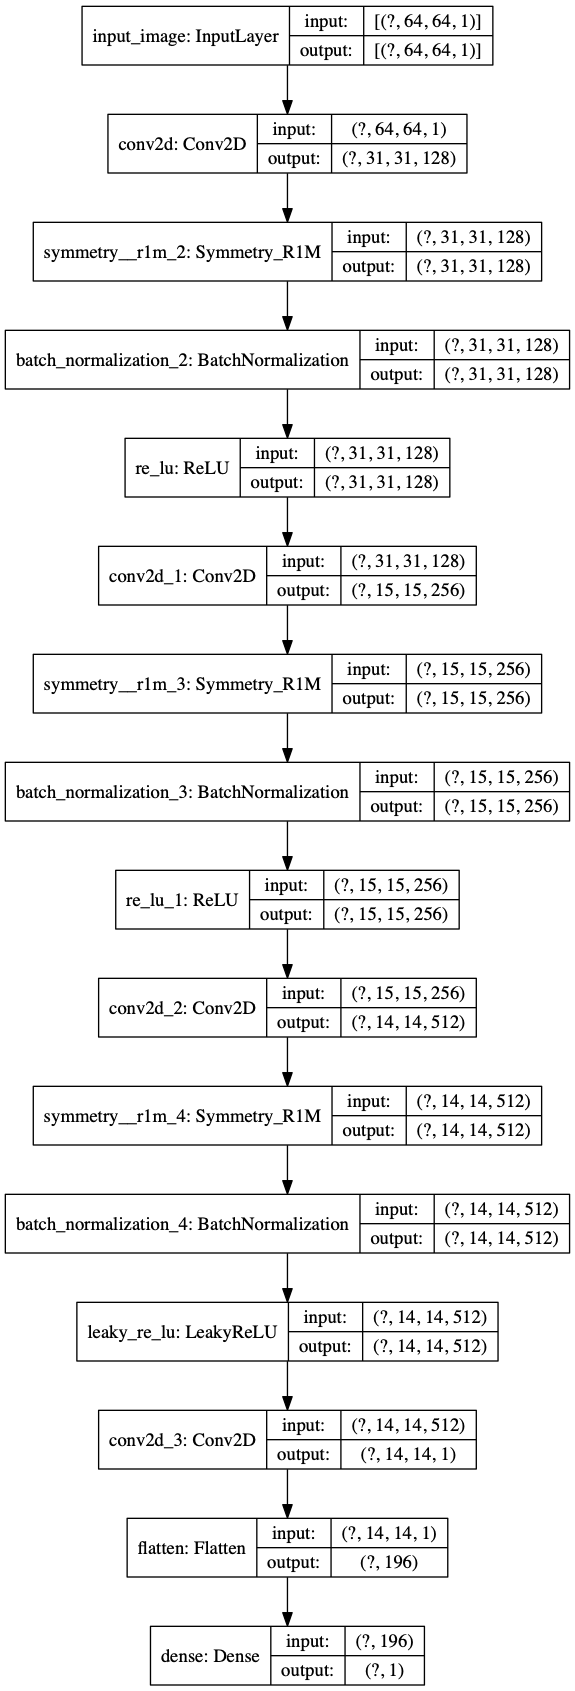
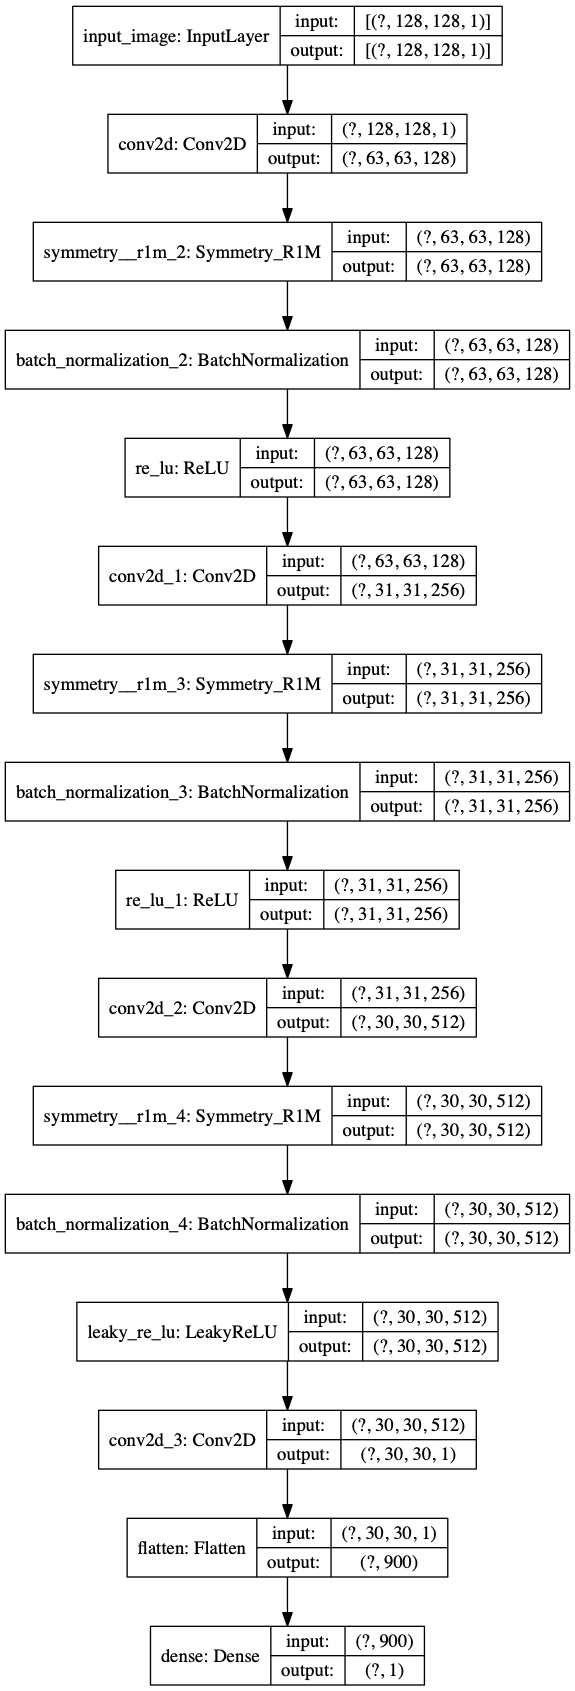
new model

diff --git a/model.py b/model.py
@@ -152,14 +152,29 @@ class Normal(tf.keras.layers.Layer):
 def make_generator_model(len_low_size=16, scale=4):
     In = tf.keras.layers.Input(
         shape=(len_low_size, len_low_size, 1), name='in', dtype=tf.float32)
-    Decl = tf.keras.layers.Conv2D(1024, [1, len_low_size], strides=1, padding='valid', data_format="channels_last", 
+    Decl = tf.keras.layers.Conv2D(16, [1, 3], strides=(1,2), padding='valid', data_format="channels_last", 
                                     activation='relu', use_bias=False,
                                     kernel_constraint=tf.keras.constraints.NonNeg(), 
                                     kernel_initializer=tf.keras.initializers.RandomNormal(mean=0.01, stddev=0.1), 
-                                    name='dec_low')(In)
+                                    name='dec_low_1')(In)
+    Decl = tf.keras.layers.Conv2D(128, [1, 3], strides=(1,2), padding='valid', data_format="channels_last", 
+                                    activation='relu', use_bias=False,
+                                    kernel_constraint=tf.keras.constraints.NonNeg(), 
+                                    kernel_initializer=tf.keras.initializers.RandomNormal(mean=0.01, stddev=0.1), 
+                                    name='dec_low_2')(Decl)
+    Decl = tf.keras.layers.Conv2D(128, [1, 3], strides=(1,2), padding='valid', data_format="channels_last", 
+                                    activation='relu', use_bias=False,
+                                    kernel_constraint=tf.keras.constraints.NonNeg(), 
+                                    kernel_initializer=tf.keras.initializers.RandomNormal(mean=0.01, stddev=0.1), 
+                                    name='dec_low_3')(Decl)
+    Decl = tf.keras.layers.Conv2D(512, [1, 3], strides=(1,2), padding='valid', data_format="channels_last", 
+                                    activation='relu', use_bias=False,
+                                    kernel_constraint=tf.keras.constraints.NonNeg(), 
+                                    kernel_initializer=tf.keras.initializers.RandomNormal(mean=0.01, stddev=0.1), 
+                                    name='dec_low_4')(Decl)
 
     WeiR1Ml = Weight_R1M(name='WR1Ml')(Decl)
-    Recl = Reconstruct_R1M(1024, name='rec_low')(WeiR1Ml)
+    Recl = Reconstruct_R1M(512, name='rec_low')(WeiR1Ml)
     Suml = Sum_R1M(name='sum_low')(Recl)
     low_out = Normal(len_low_size, name='out_low')(Suml)
 
@@ -167,7 +182,7 @@ def make_generator_model(len_low_size=16, scale=4):
     m_F = tf.constant(1/16.0, shape=(1, 1, 1, 1))
     up_o = tf.keras.layers.Multiply(name='scale_value_in')([up_o, m_F])'''
 
-    Rech = Reconstruct_R1M(1024, name='rec_high')(WeiR1Ml)
+    Rech = Reconstruct_R1M(512, name='rec_high')(WeiR1Ml)
 
     conv1 = tf.keras.layers.Conv2D(128, [3, 3], strides=1, padding='same', data_format="channels_last", 
                                     activation='relu', use_bias=False,
@@ -515,8 +530,8 @@ def plot_to_image(figure):
     return image
 
 if __name__ == '__main__':
-    Gen = make_generator_model(len_low_size=16, scale=4)
-    Dis = make_discriminator_model(len_low_size=16, scale=4)
+    Gen = make_generator_model(len_low_size=32, scale=4)
+    Dis = make_discriminator_model(len_low_size=32, scale=4)
     print(Gen.summary())
     tf.keras.utils.plot_model(Gen, to_file='G.png', show_shapes=True)
     print(Dis.summary())
